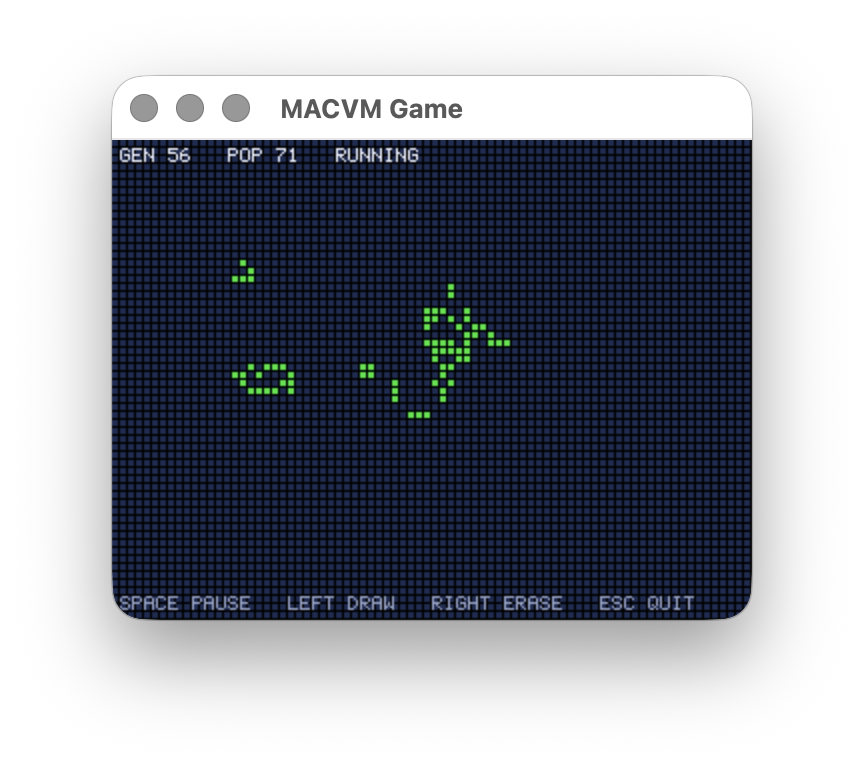
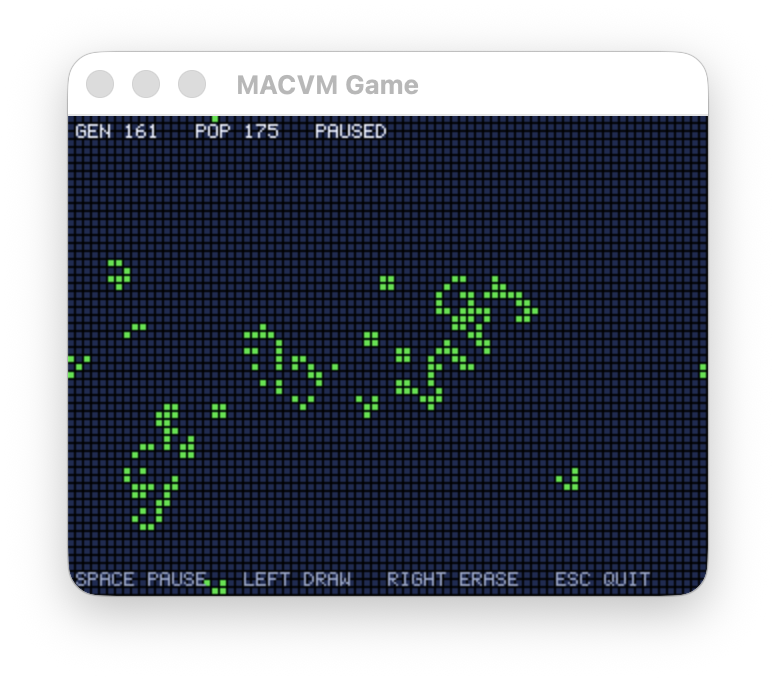
gallery: Life, drawn and left to settle
Generation 161, paused, after a hand-drawn population evolved down to
gliders and still lifes — a board with structure in it rather than the
random soup the demo opens with. The PAUSED state in the header is the
point of the shot as much as the cells: pausing to draw and resuming is
how the demo is meant to be used.

diff --git a/docs/gallery/README.md b/docs/gallery/README.md
@@ -62,7 +62,7 @@ the Browser while it runs.
 | ![Breakout](10-demo-breakout.png) | **Breakout** — the reference game. Paddle on the arrow keys, brick collision, lives, score, sound. The best first read for anyone learning the engine. |
 | ![Galaxigans](13-demo-galaxigans.png) | **Galaxigans** — a full arcade game: sprite sheets, waves, score, HUD, attract mode. |
 | ![Worms](12-demo-worms.png) | **Worms** — sprite handling and swarm movement. |
-| ![Game of Life](20-demo-life.png) | **Game of Life** — Conway, with the generation and population counted on screen. SPACE pauses; the left button *draws* live cells and the right one erases, and because drawing reads the button's held state rather than a click, dragging paints a stroke. |
+| ![Game of Life](20-demo-life.png) | **Game of Life** — Conway, with the generation and population counted on screen (paused here at generation 161, after a drawn-in population settled into gliders and still lifes). SPACE pauses and resumes; the left button *draws* live cells and the right one erases, and because drawing reads the button's held state rather than a click, dragging paints a stroke. |
 | ![Minesweeper](21-demo-minesweeper.png) | **Minesweeper** — an 18×12 field with 32 mines, played here to a real (losing) finish: hitting a mine ends the game, opens the whole field and marks the fatal square in red, with the neighbour counts in the colours everyone expects. Left click reveals, right click flags, SPACE deals a new board. `Minesweeper launchWithSeed: 12345` deals the same board every time, which is how its tests are written. |
 | ![FreeCell](22-demo-freecell.png) | **FreeCell** — the card game, dealt to Microsoft's published deal specification, so deal numbers mean what they mean everywhere else: `FreeCell launchDeal: 617` is the famously hard one, and 11982 is the one deal of the original 32000 nobody can win. Drag with the mouse; right-click sends a card up. |
 
